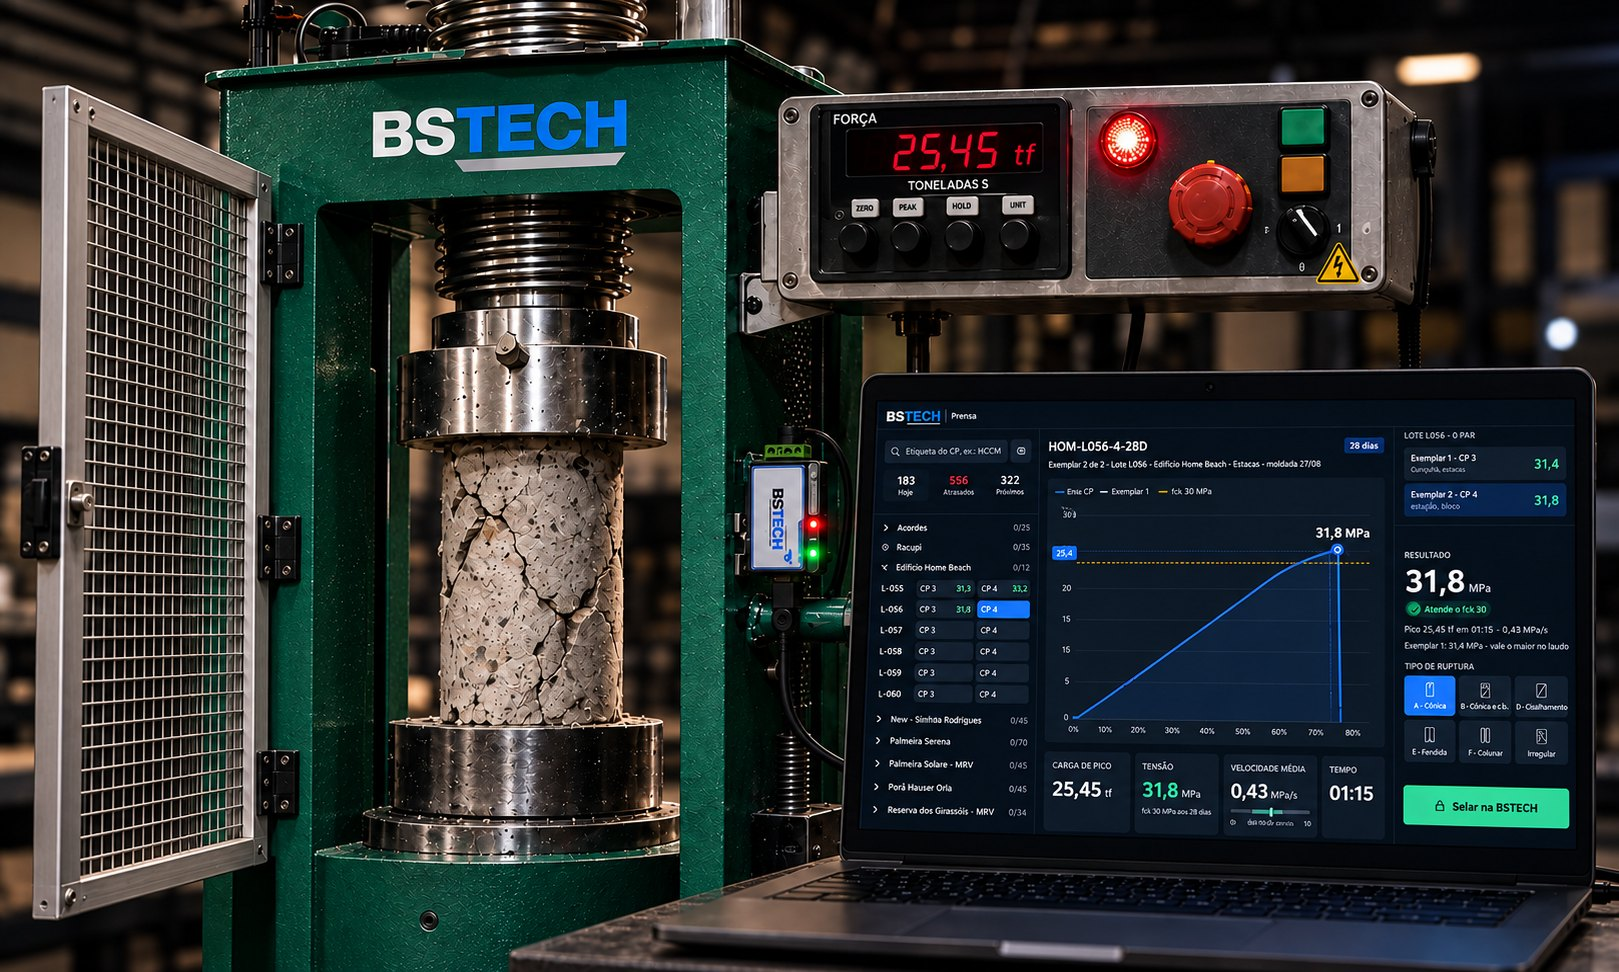
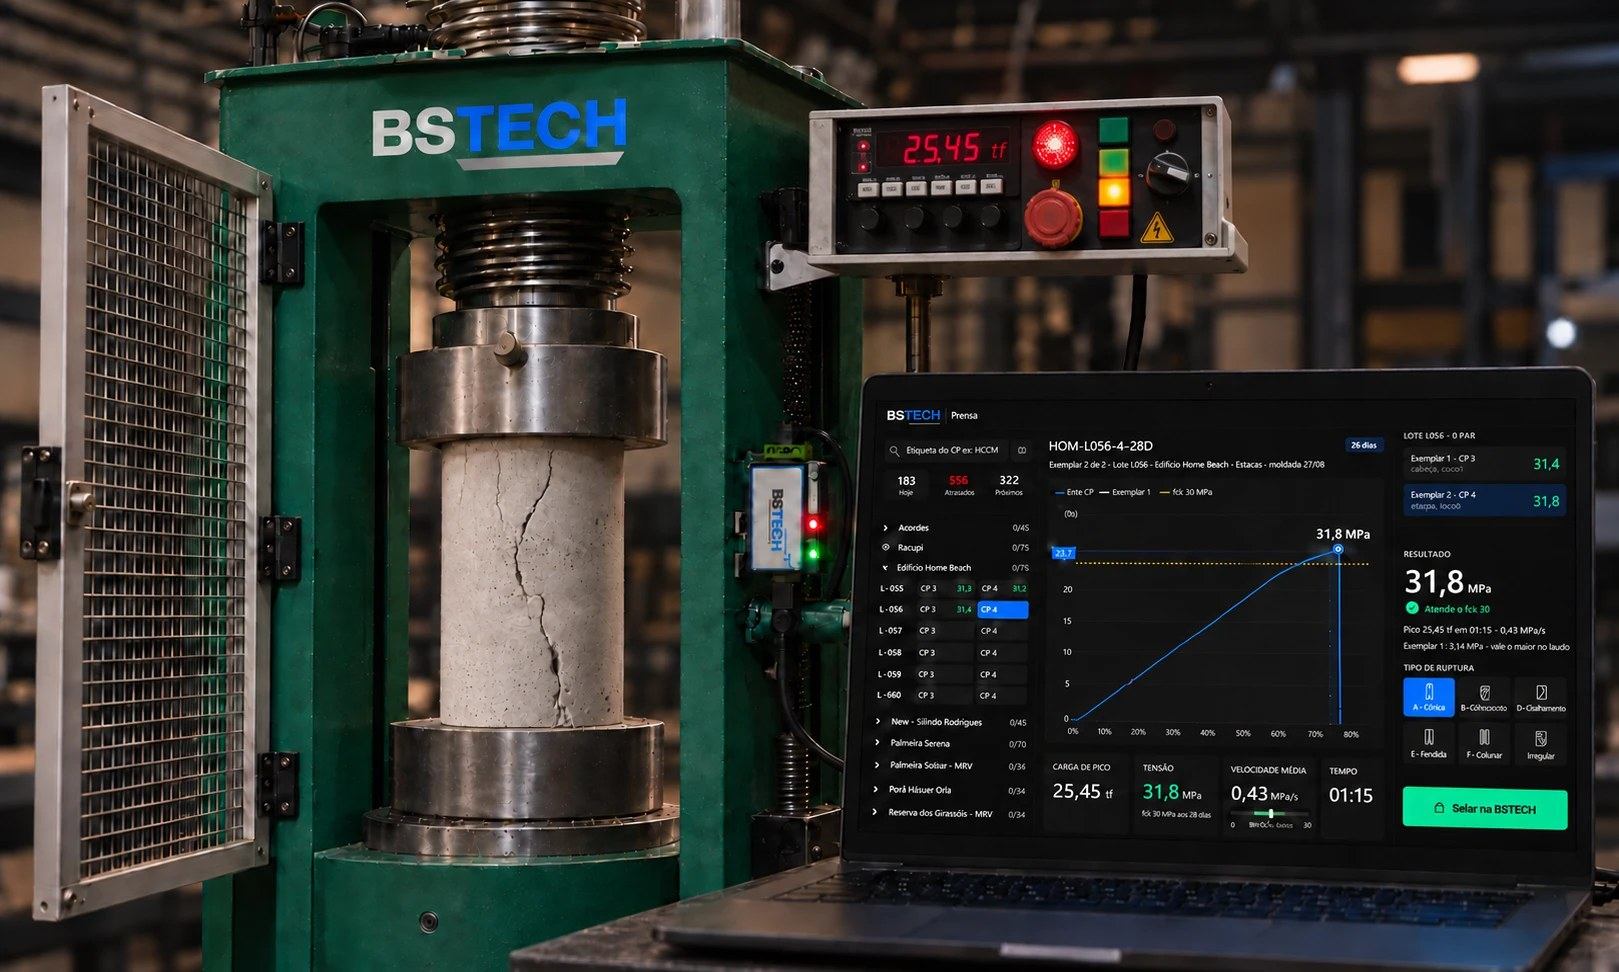
fix(prensa): fila carrega pela funcao prensa_fila; foto nova da entrada
- A leitura direta dos CPs conferia a permissao CP por CP e estourava o tempo
  limite do banco (canceling statement due to statement timeout). A fila e a
  contagem dos proximos dias agora vem numa chamada so, com a permissao
  resolvida por obra (Eternita: 542 CPs em 70 ms)
- Tira a mencao a bipar etiqueta (nao existe leitor)
- Troca a foto da entrada

diff --git a/app/src/renderer/src/lib/supabase.ts b/app/src/renderer/src/lib/supabase.ts
@@ -34,76 +34,27 @@ export function localIsoDate(d: Date = new Date()): string {
   return `${y}-${m}-${day}`
 }
 
-const SPECIMEN_SELECT = `
-  id, specimen_code, status, test_age_days, due_date,
-  specimen_diameter_mm, specimen_height_mm, weight_kg,
-  height_diameter_ratio, correction_factor,
-  project_id, batch_id,
-  applied_load_ton, calculated_fck_mpa, corrected_fck_mpa, rupture_type, ruptured_at,
-  specimen_molder:operators!specimens_molding_operator_id_fkey(name),
-  rupture_operator:operators!specimens_rupture_operator_id_fkey(name),
-  projects!inner(name),
-  concrete_batches!inner(
-    batch_code,
-    molding_date,
-    concrete_suppliers(name),
-    batch_molder:operators!concrete_batches_molding_operator_id_fkey(name),
-    batch_structure_allocations(
-      structures(name, structure_type, target_fck_mpa)
-    )
-  )
-`
-
-// Fila do dia: tudo que vence hoje ou ja venceu e ainda nao rompeu, mais o que
-// foi rompido hoje (pra mostrar o progresso e o par do lote). O filtro e no
-// servidor, por data, entao o CP de hoje nunca fica de fora por limite de linhas.
-export async function fetchQueue(): Promise<Specimen[]> {
+// Fila do dia numa chamada so (funcao prensa_fila no banco): tudo que vence hoje
+// ou ja venceu e ainda nao rompeu, mais o que foi rompido hoje (progresso e par do
+// lote), e a contagem dos proximos dias. A permissao e resolvida por obra no banco;
+// ler specimens direto avaliava a permissao CP por CP e estourava o tempo limite.
+export async function fetchQueue(): Promise<{ specimens: Specimen[]; upcoming: { date: string; count: number }[] }> {
   const sb = await getClient()
-  const today = localIsoDate()
   const startOfToday = new Date()
   startOfToday.setHours(0, 0, 0, 0)
-  const PAGE = 1000
-  const rows: any[] = []
-  for (let from = 0; ; from += PAGE) {
-    const { data, error } = await sb
-      .from('specimens')
-      .select(SPECIMEN_SELECT)
-      .lte('due_date', today)
-      .is('deleted_at', null)
-      .or(`status.eq.PENDING,ruptured_at.gte.${startOfToday.toISOString()}`)
-      .order('due_date', { ascending: true })
-      .order('specimen_code', { ascending: true })
-      .range(from, from + PAGE - 1)
-    if (error) throw error
-    rows.push(...(data ?? []))
-    if (!data || data.length < PAGE) break
-  }
-  return rows.map(mapSpecimen)
+  const { data, error } = await sb.rpc('prensa_fila', {
+    p_hoje: localIsoDate(),
+    p_inicio_dia: startOfToday.toISOString(),
+    p_dias_proximos: 3
+  })
+  if (error) throw error
+  const fila = (data?.fila ?? []) as Record<string, unknown>[]
+  return { specimens: fila.map(mapSpecimen), upcoming: data?.proximos ?? [] }
 }
 
-// Proximos dias: so a contagem, os CPs entram na fila no dia do vencimento
-export async function fetchUpcomingCounts(days = 3): Promise<{ date: string; count: number }[]> {
-  const sb = await getClient()
-  const out: { date: string; count: number }[] = []
-  for (let i = 1; i <= days; i++) {
-    const d = new Date()
-    d.setDate(d.getDate() + i)
-    const iso = localIsoDate(d)
-    const { count, error } = await sb
-      .from('specimens')
-      .select('id', { count: 'exact', head: true })
-      .eq('status', 'PENDING')
-      .eq('due_date', iso)
-      .is('deleted_at', null)
-    if (error) throw error
-    out.push({ date: iso, count: count ?? 0 })
-  }
-  return out
-}
+const num = (v: unknown): number | null => (v == null ? null : Number(v))
 
 function mapSpecimen(row: any): Specimen {
-  const batch = row.concrete_batches
-  const struct = pickStructure(batch?.batch_structure_allocations)
   return {
     id: row.id,
     specimen_code: row.specimen_code,
@@ -111,38 +62,27 @@ function mapSpecimen(row: any): Specimen {
     test_age_days: row.test_age_days,
     due_date: row.due_date,
     specimen_diameter_mm: Number(row.specimen_diameter_mm),
-    specimen_height_mm: row.specimen_height_mm ? Number(row.specimen_height_mm) : null,
-    weight_kg: row.weight_kg ? Number(row.weight_kg) : null,
-    height_diameter_ratio: row.height_diameter_ratio ? Number(row.height_diameter_ratio) : null,
-    correction_factor: row.correction_factor ? Number(row.correction_factor) : null,
+    specimen_height_mm: num(row.specimen_height_mm),
+    weight_kg: num(row.weight_kg),
+    height_diameter_ratio: num(row.height_diameter_ratio),
+    correction_factor: num(row.correction_factor),
     project_id: row.project_id,
     batch_id: row.batch_id,
-    project_name: row.projects?.name?.trim() ?? 'n/d',
-    batch_code: batch?.batch_code ?? 'n/d',
-    fck_spec_mpa: struct?.target_fck_mpa != null ? Number(struct.target_fck_mpa) : null,
-    structure_name: struct?.name ?? null,
-    structure_type: struct?.structure_type ?? null,
-    supplier_name: batch?.concrete_suppliers?.name ?? null,
-    molder_name: row.specimen_molder?.name ?? batch?.batch_molder?.name ?? null,
-    molding_date: batch?.molding_date ?? null,
-    applied_load_ton: row.applied_load_ton ? Number(row.applied_load_ton) : null,
-    calculated_fck_mpa: row.calculated_fck_mpa ? Number(row.calculated_fck_mpa) : null,
-    corrected_fck_mpa: row.corrected_fck_mpa ? Number(row.corrected_fck_mpa) : null,
+    project_name: row.project_name || 'n/d',
+    batch_code: row.batch_code ?? 'n/d',
+    fck_spec_mpa: num(row.fck_spec_mpa),
+    structure_name: row.structure_name ?? null,
+    structure_type: row.structure_type ?? null,
+    supplier_name: row.supplier_name ?? null,
+    molder_name: row.molder_name ?? null,
+    molding_date: row.molding_date ?? null,
+    applied_load_ton: num(row.applied_load_ton),
+    calculated_fck_mpa: num(row.calculated_fck_mpa),
+    corrected_fck_mpa: num(row.corrected_fck_mpa),
     rupture_type: row.rupture_type ?? null,
     ruptured_at: row.ruptured_at ?? null,
-    rupture_operator_name: row.rupture_operator?.name ?? null
+    rupture_operator_name: row.rupture_operator_name ?? null
   }
-}
-
-function pickStructure(
-  allocations: any
-): { name: string; structure_type: string | null; target_fck_mpa: number | null } | null {
-  if (!Array.isArray(allocations)) return null
-  for (const alloc of allocations) {
-    const s = alloc?.structures
-    if (s?.name) return s
-  }
-  return null
 }
 
 // Operador de ruptura ligado ao login (operators.user_id). Cada operador entra

diff --git a/app/src/renderer/src/App.tsx b/app/src/renderer/src/App.tsx
@@ -9,7 +9,6 @@ import { DemoControlBar } from './components/DemoControlBar'
 import {
   getClient,
   fetchQueue,
-  fetchUpcomingCounts,
   fetchPressEquipment,
   resolveAccess,
   type Access,
@@ -63,7 +62,7 @@ function Inner() {
   const sp = state.specimens.find((s) => s.id === state.selectedSpecimenId) ?? null
 
   const loadQueue = useCallback(async () => {
-    const [specs, upcoming] = await Promise.all([fetchQueue(), fetchUpcomingCounts()])
+    const { specimens: specs, upcoming } = await fetchQueue()
     dispatch({ type: 'set_queue', specimens: specs })
     dispatch({ type: 'set_upcoming', upcoming })
     return specs

diff --git a/app/src/renderer/src/components/Bench.tsx b/app/src/renderer/src/components/Bench.tsx
@@ -45,7 +45,7 @@ export function BenchCenter() {
       <main className="grid place-items-center text-center px-6 min-w-0">
         <div>
           <div className="text-lg font-semibold">Escolha um CP na fila</div>
-          <div className="text-[13.5px] text-bs-text-dim mt-1.5">ou bipe a etiqueta do CP que está na mão</div>
+          <div className="text-[13.5px] text-bs-text-dim mt-1.5">ou busque pela etiqueta no topo da fila</div>
         </div>
       </main>
     )
